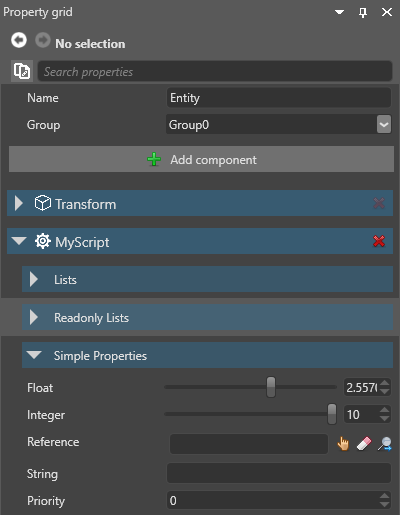
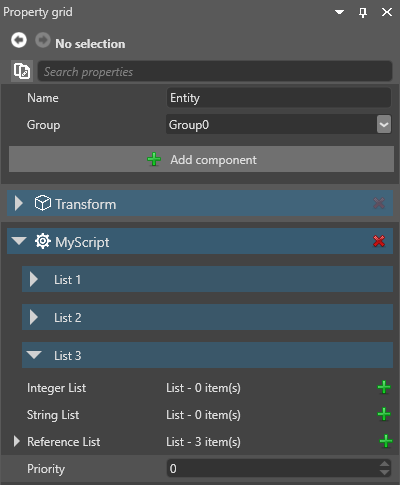
[Scripts] merge attributes.md into public-properties-and-fields.md

diff --git a/manual/scripts/public-properties-and-fields.md b/manual/scripts/public-properties-and-fields.md
@@ -51,24 +51,125 @@ Game Studio shows the `DelayTimeOut` property in the script component properties
 >```
 >If you want to include code like this in a property or field, hide it so Game Studio doesn't display it (see below). 
 
-## Hide properties or fields in the property grid
+## Attributes
 
-If you don't want Game Studio to show a property in the property grid, you can:
+When you declare public properties and fields, you can include attributes to change how users edit them in the Game Studio property grid. 
 
-* declare your member internal or private, or
-* use the [DataMemberIgnore](xref:SiliconStudio.Core.DataMemberIgnoreAttribute) attribute like this:
+Add attributes above public classes you declare in your scripts. For example:
 
 ```cs
+        [DataMember]
+        [DataMemberRange(-10, 10, 0.1f, 1f)]
+        [Display(category: "Simple Properties")]
+        [DefaultValue(2.0f)]
+        public float Float { get; set; } = 2.0f;
+```
 
+### DataMember
+
+[DataMember](https://msdn.microsoft.com/en-us/library/system.runtime.serialization.datamemberattribute) 
+
+### DataMemberRange
+
+[DataMemberRange](xref:SiliconStudio.Core.Annotations.DataMemberRangeAttribute) specifies the range of the value you can set in the property grid.
+
+```cs
+        [DataMember]
+        [DataMemberRange(-10, 10, 1, 2)]
+        public int Integer { get; set; }
+```
+
+* The first number specifies the minimum value.
+* The second number specifies the maximum value.
+* The third number specifies the increments the value increases and decreases by.
+* **The fourth number is a mystery. Good luck!**
+
+### DataMemberIgnore
+
+[DataMemberIgnore](xref:SiliconStudio.Core.DataMemberIgnoreAttribute) hides the property in the property grid. 
+
+```cs
 	// This public property isn't available in Game Studio
 	[DataMemberIgnore]
 	public float DelayTimeOut { get; set; }
-	
-```
+```	
 
-Game Studio no longer shows the property:
+Game Studio no longer shows the property in the property grid:
 
 ![Public property been hidden with ```[DataMemberIgnore]```](media/scripts-in-xenko-public-property-with-datamemberignore.png)
+
+### DefaultValue
+
+[Default value](https://msdn.microsoft.com/en-us/library/system.componentmodel.defaultvalueattribute) sets a default value for the property.
+
+>![Note]
+>You need to specify this in both the ``DefaultValue`` attribute and after the class  declaration.
+
+```cs
+        [DefaultValue(2.0f)]
+        public float Float { get; set; } = 2.0f;
+```
+
+### Display
+
+[Class DisplayAttribute](xref:SiliconStudio.Core.DisplayAttribute) changes the property label in the property grid.
+
+```cs
+        [Display("My Property")]
+        public double Double { get; set; }
+```
+
+![My-Property](media/my-property.png)
+
+You can also specify an expandable category for the property to be displayed under.
+
+```cs
+        [Display("My Property", "My Category")]
+        public double Double { get; set; }
+```
+
+![My-Property-My-Category](media/my-property-my-category.png)
+
+If you want to include the property in a category without giving it a name, use ``[Display(category: "My Category")]``. For example:
+
+```cs
+        [Display(category: "My Category")]
+        public double Double { get; set; }
+```
+
+### CategoryOrder
+
+By default, the property grid lists properties in the same order they appear in your script. You can specify a different order using [CategoryOrder](xref:SiliconStudio.Core.Annotations.CategoryOrderAttribute). 
+
+Categories with lower numbers are displayed first. You can also use negative numbers.
+
+```cs
+    [CategoryOrder(1, "List 1")]
+    [CategoryOrder(2, "List 2")]
+    [CategoryOrder(3, "List 3")]
+    public class MyScript : StartupScript
+```
+
+![Category order](media/category-order.png)
+
+If two categories have the same number, the property grid lists them in alphabetical order. 
+
+### MemberCollection
+
+[MemberCollection](xref:SiliconStudio.Core.Annotations.MemberCollectionAttribute) changes how users can interact with items in a list.
+
+```cs
+        [DataMember]
+        [MemberCollection(ReadOnly = false, NotNullItems = true, CanReorderItems = true)]
+        [Display(category: "List 2")]
+        public List<int> ReadonlyIntegerList { get; set; } = new List<int> { 0, 1, 2, 3, 4 };
+```
+
+| Property        | Description                                                                                     |
+|-----------------|-------------------------------------------------------------------------------------------------|
+| CanReorderItems | If `true`, you can re-order items in a list in the property grid by dragging and dropping them. |
+| NotNullItems    | If `true`, items in the list can't be null.                                                     |
+| ReadOnly        | If `true`, you can't add or remove items to or from a list in the property grid.                |
 
 ## See also
 
